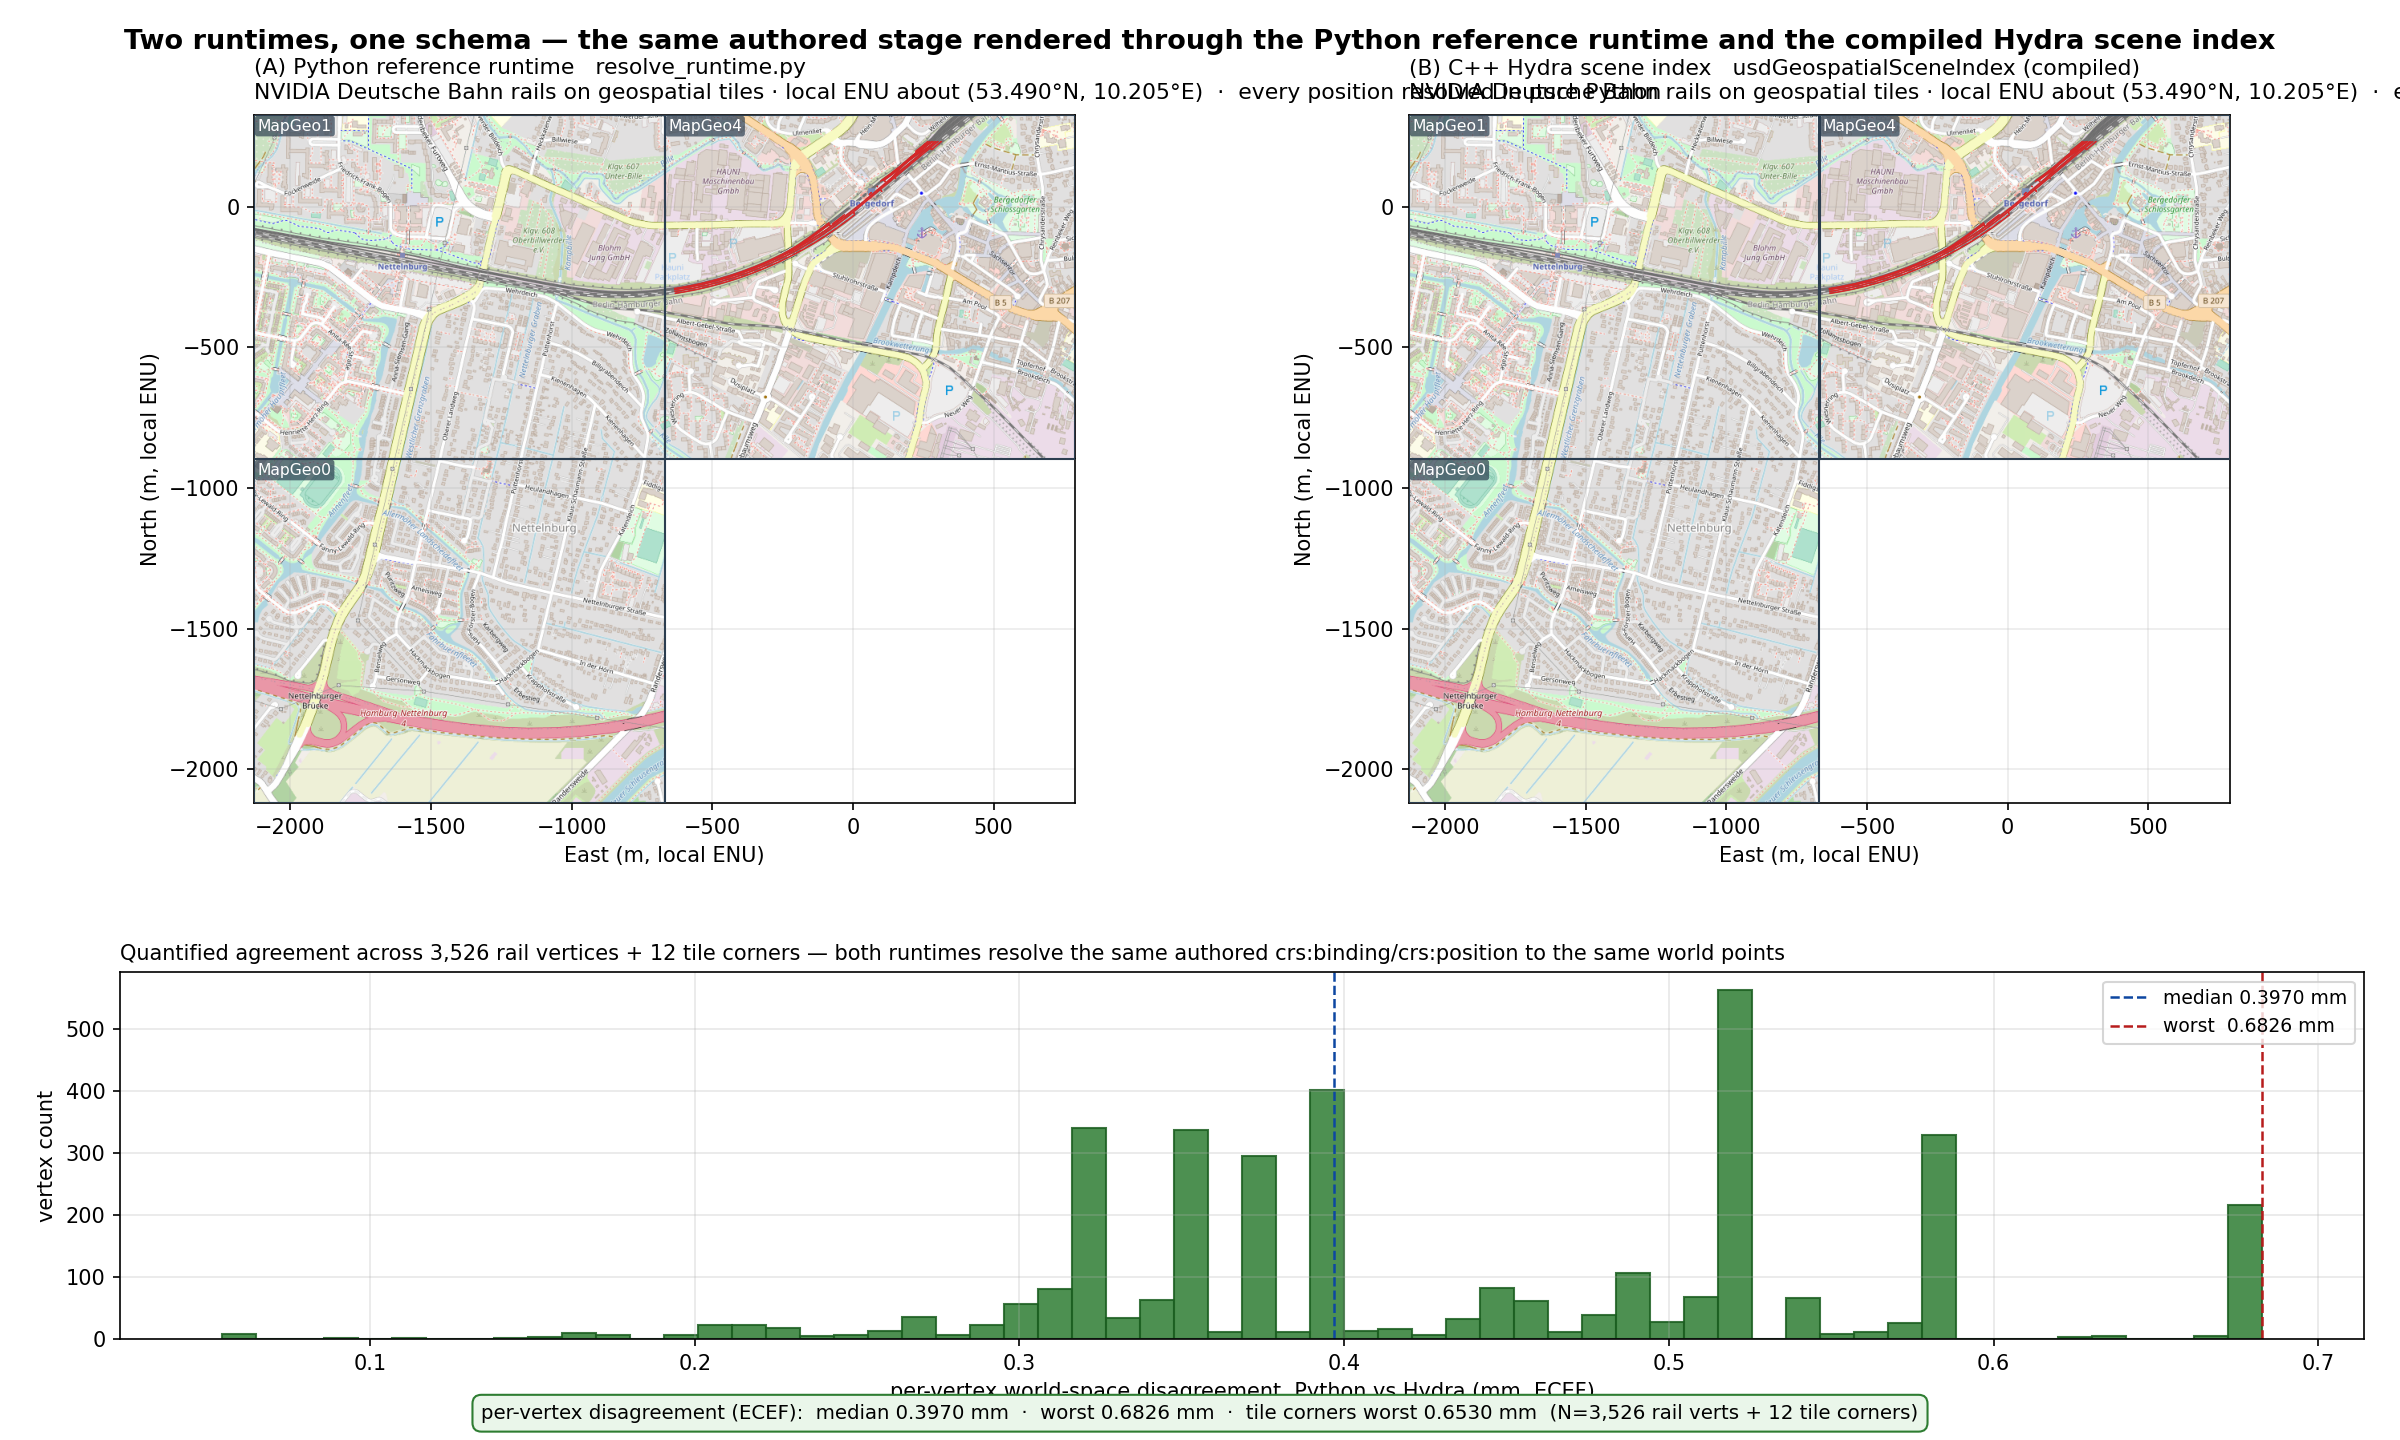
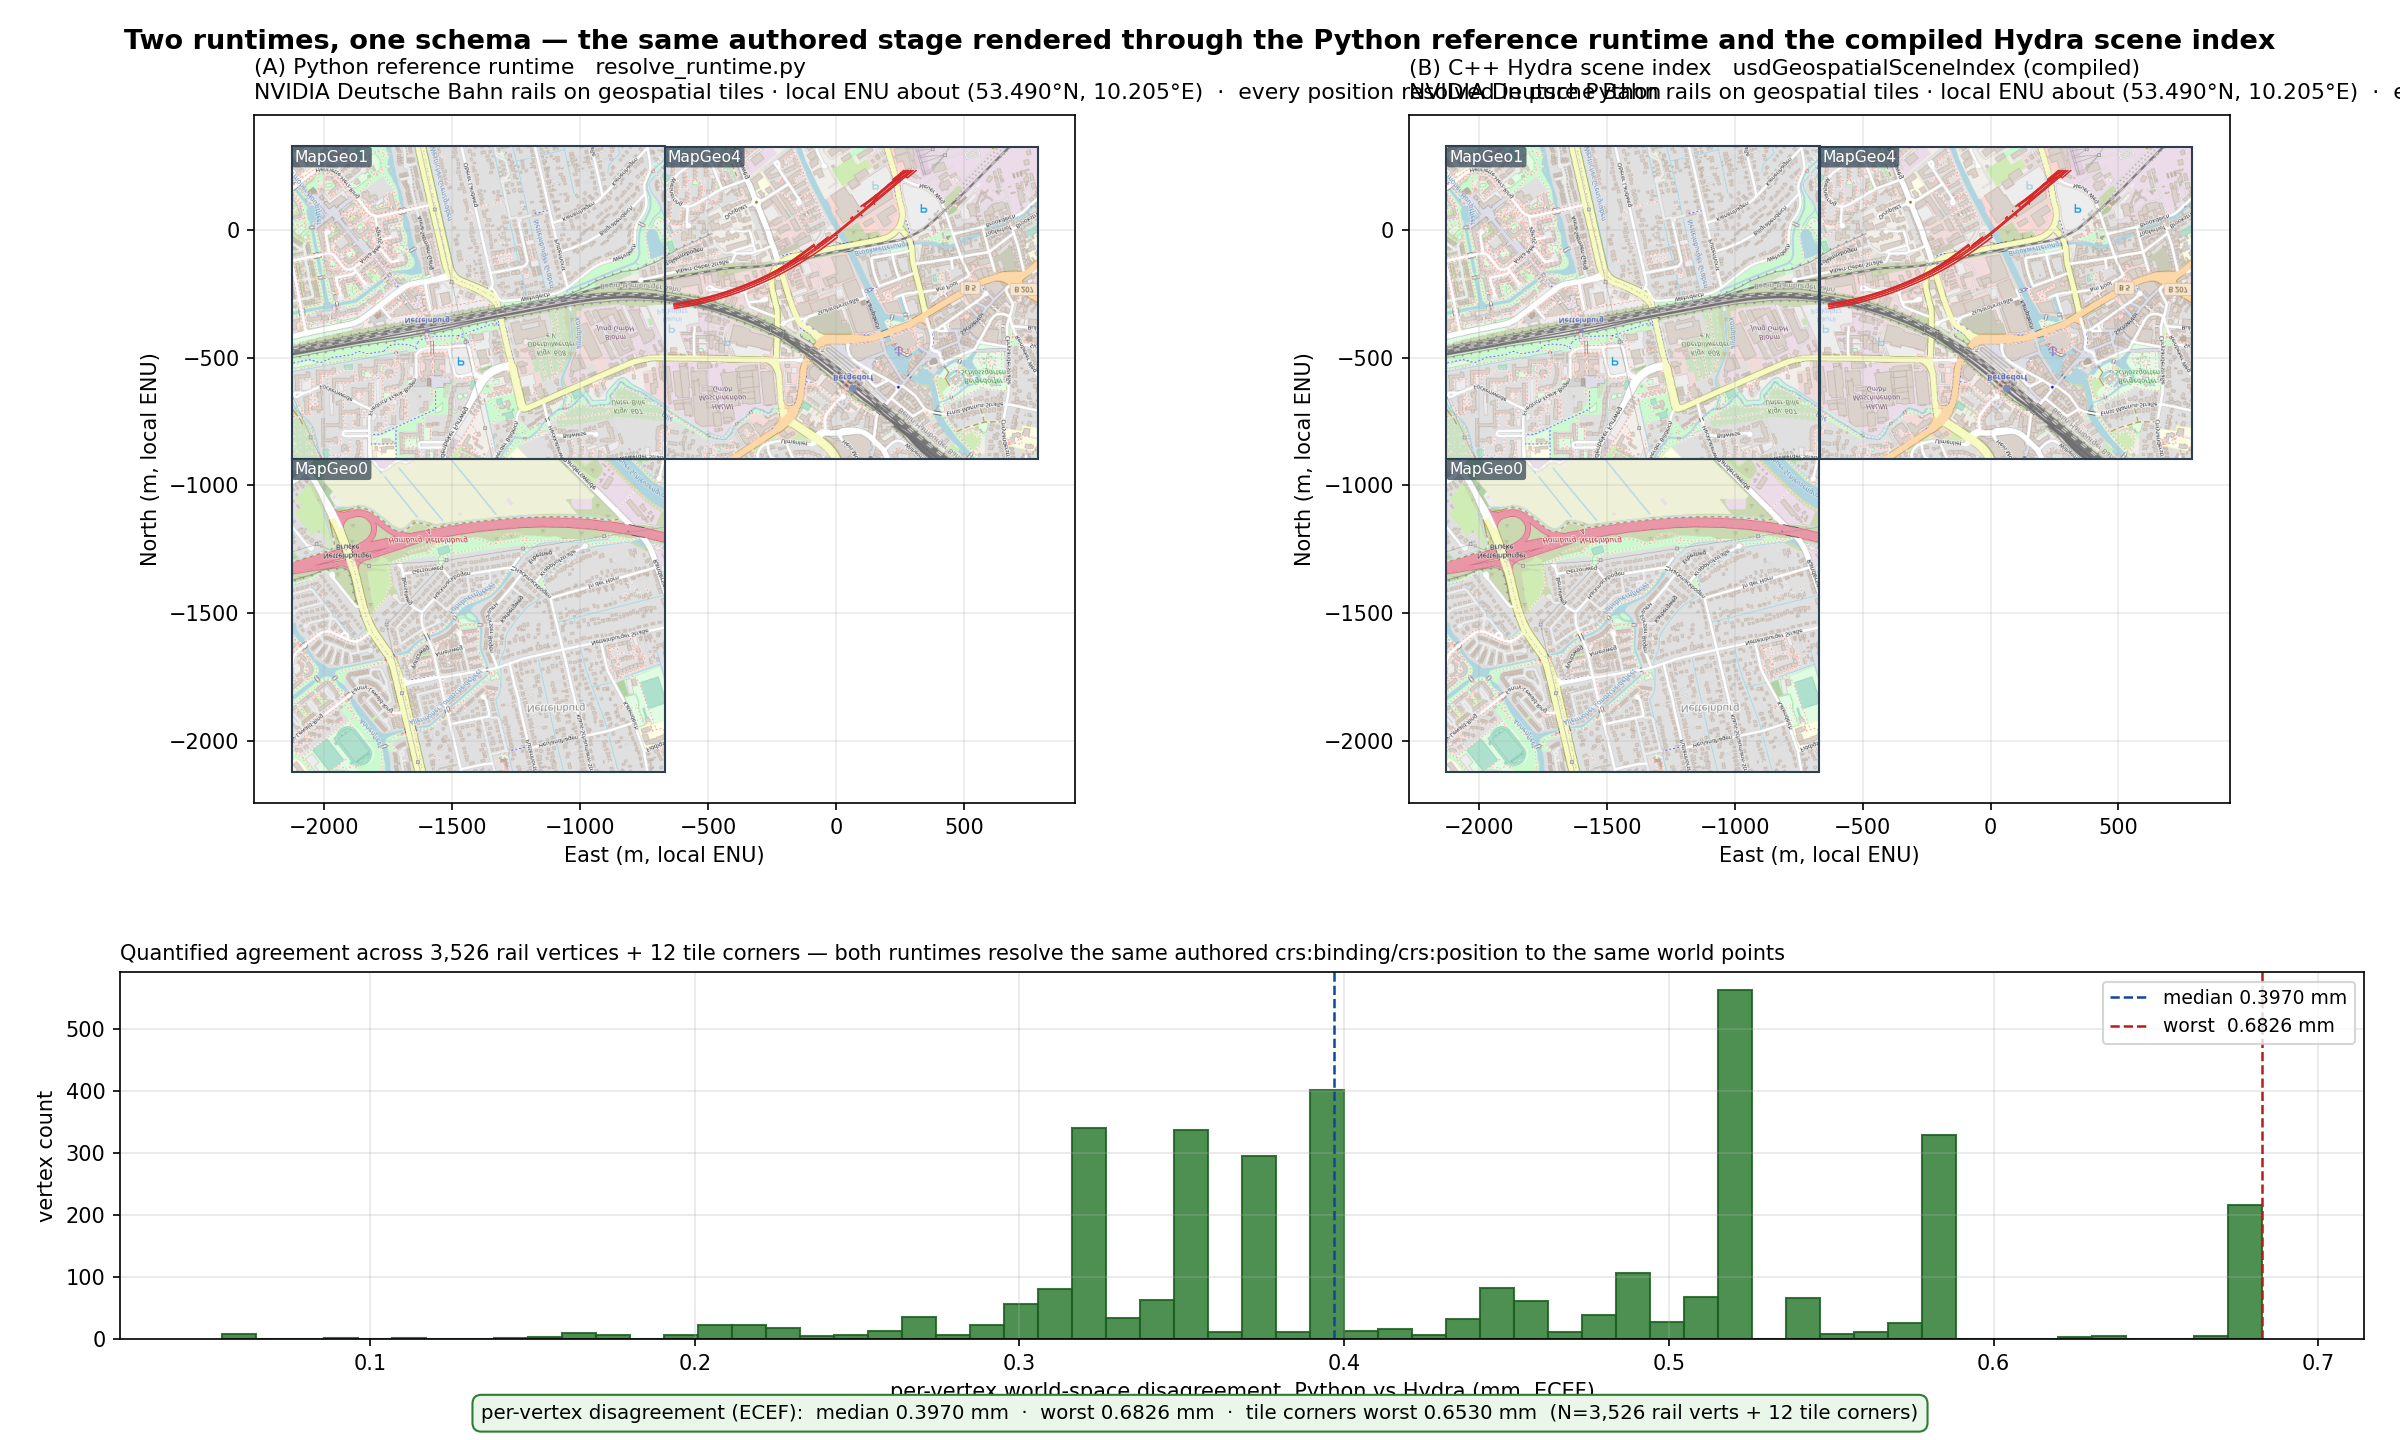
usdGeospatial: render tile textures via real st UVs, not a bbox stretch
Follow-up to the origin flip fix: the railway figures had been faking the tile
texturing by stretching each quadnode PNG into the tile's E/N bounding box. Now
they honor the asset's actual UsdUVTexture/st mapping -- a _draw_uv_textured_quad
helper solves the affine UV->world-EN transform from the mesh's per-corner st
([(0,0),(0,1),(1,1),(1,0)], t=0 at the south corner) and places image pixel (s,t)
at the world corner carrying that st. Exact for the (parallelogram) tiles here
(corner residual ~1e-10 m) and correct for any quad orientation, where a bbox
stretch would not be. Applied in both fig_railway_render and fig_runtime_parity.
Texture-only; geometry/parity unchanged (median 0.40 / worst 0.68 mm, 3,526
verts). Lets the README drop the 'we fake the texture' caveat.

diff --git a/extras/usd/examples/usdGeospatial/src/render_figures.py b/extras/usd/examples/usdGeospatial/src/render_figures.py
@@ -543,10 +543,43 @@ def fig_generalization(out):
 # This is the "rails on geospatial tiles" the original NVIDIA demo rendered,
 # reproduced through OUR codeless resolver (no Hydra, no external renderer).
 # --------------------------------------------------------------------------
+def _draw_uv_textured_quad(ax, img, corners_en, uvs, **imshow_kw):
+    """Draw a texture onto a quad using its ACTUAL st UVs -> world-EN mapping,
+    not a bbox stretch. Honors the asset's UsdUVTexture/st convention: image
+    pixel (s,t) is placed at the world corner carrying that (s,t), for any quad
+    orientation. UV (0,0) is the image's bottom-left, (1,1) its top-right.
+
+    For an affine (parallelogram) quad this is exact: we solve the 2x3 affine
+    A that maps unit-square UV space -> EN, set imshow on the unit square in a
+    UV-aligned data space, and compose A as the image transform. Falls back to
+    a bbox stretch only if UVs are missing."""
+    import matplotlib.transforms as mtransforms
+    if uvs is None or corners_en is None or len(corners_en) < 4:
+        c = corners_en
+        emin, emax = c[:, 0].min(), c[:, 0].max()
+        nmin, nmax = c[:, 1].min(), c[:, 1].max()
+        ax.imshow(img, extent=[emin, emax, nmin, nmax], origin="upper", **imshow_kw)
+        return
+    # Solve affine [E,N]^T = A @ [s,t,1]^T from the (>=3) corner correspondences.
+    S = np.column_stack([uvs[:, 0], uvs[:, 1], np.ones(len(uvs))])  # (n,3)
+    EN = np.asarray(corners_en)                                     # (n,2)
+    A, *_ = np.linalg.lstsq(S, EN, rcond=None)                      # (3,2): cols E,N
+    # imshow in UV space: extent [0,1]x[0,1], origin=lower so row0=t=0 (bottom).
+    im = ax.imshow(img, extent=[0, 1, 0, 1], origin="lower", **imshow_kw)
+    # Affine2D maps (s,t)->(E,N): [[a_e_s, a_e_t, a_e_1],[a_n_s, a_n_t, a_n_1]]
+    aff = mtransforms.Affine2D(matrix=np.array([
+        [A[0, 0], A[1, 0], A[2, 0]],
+        [A[0, 1], A[1, 1], A[2, 1]],
+        [0.0,     0.0,     1.0],
+    ]))
+    im.set_transform(aff + ax.transData)
+
+
 def _railway_local_geometry(stage_path="out/railway_georef.usda"):
     """Resolve tiles + rail curves into a shared local ENU frame centred on the
     railway centroid. Returns (tiles, rails, info). Each tile is a dict with
-    corner E/N (m) and the texture path; each rail is an (N,2) E/N polyline."""
+    corner E/N (m), per-corner st UVs, and the texture path; each rail is an
+    (N,2) E/N polyline."""
     from pxr import Usd, Gf
     import resolve_runtime as rr
     from pyproj import CRS
@@ -580,11 +613,15 @@ def _railway_local_geometry(stage_path="out/railway_georef.usda"):
         M, _ = rr.anchor_frame(t, ECEF, cache)
         tex = None
         corners = None
+        uvs = None
         for c in t.GetChildren():
             if c.GetTypeName() == "Mesh" and c.GetAttribute("points"):
                 pts = c.GetAttribute("points").Get()
                 corners = np.array([to_en(M.Transform(Gf.Vec3d(*p))) for p in pts])
-        tiles.append({"name": t.GetName(), "corners": corners})
+                stp = c.GetAttribute("primvars:st")
+                if stp and stp.Get():
+                    uvs = np.array([list(uv) for uv in stp.Get()])
+        tiles.append({"name": t.GetName(), "corners": corners, "uvs": uvs})
     # texture files (in vendor dir) keyed by MapGeo index if present
     import glob
     texdir = "data/thirdparty"
@@ -681,11 +718,11 @@ def fig_railway_render(out, stage_path="out/railway_georef.usda"):
         nmin, nmax = c[:, 1].min(), c[:, 1].max()
         if tl["tex"]:
             img = np.asarray(Image.open(tl["tex"]).convert("RGB"))
-            # origin="upper": image row 0 (top of the picture) maps to nmax (north),
-            # matching the tile's st convention (t=0 at the south corner). Using
-            # origin="lower" here flips the texture N/S (mirrored text).
-            ax.imshow(img, extent=[emin, emax, nmin, nmax], origin="upper",
-                      zorder=1, alpha=0.95, aspect="auto")
+            # Faithful UV-mapped draw: place image (s,t) at the world corner with
+            # that st (honors the asset's UsdUVTexture/st mapping for any quad
+            # orientation), instead of stretching the PNG into the E/N bbox.
+            _draw_uv_textured_quad(ax, img, c, tl.get("uvs"),
+                                   zorder=1, alpha=0.95)
         else:
             ax.add_patch(plt.Rectangle((emin, nmin), emax-emin, nmax-nmin,
                          fc="#cdd6df", ec="#8a97a6", zorder=1))

diff --git a/extras/usd/examples/usdGeospatial/fig_runtime_parity.py b/extras/usd/examples/usdGeospatial/fig_runtime_parity.py
@@ -90,7 +90,10 @@ def collect_tiles_rails(stage, get_xform):
                     continue
                 corners = np.array([to_en(M.Transform(Gf.Vec3d(*p)), o, east, north)
                                     for p in pts])
-                tiles.append({"name": t.GetName(), "corners": corners})
+                stp = c.GetAttribute("primvars:st")
+                uvs = (np.array([list(uv) for uv in stp.Get()])
+                       if stp and stp.Get() else None)
+                tiles.append({"name": t.GetName(), "corners": corners, "uvs": uvs})
     rails = []
     rail_world = []     # raw ECEF points for parity stats
     for r in stage.Traverse():
@@ -115,6 +118,28 @@ def collect_tiles_rails(stage, get_xform):
     return tiles, rails, rail_world, (lon0, lat0)
 
 
+def _draw_uv_textured_quad(ax, img, corners_en, uvs, **imshow_kw):
+    """Place image pixel (s,t) at the world-EN corner carrying that st (honors
+    the asset's UsdUVTexture/st mapping for any quad orientation), via an affine
+    UV->EN transform; bbox fallback only if UVs are missing."""
+    import matplotlib.transforms as mtransforms
+    if uvs is None or corners_en is None or len(corners_en) < 4:
+        c = corners_en
+        ax.imshow(img, extent=[c[:, 0].min(), c[:, 0].max(),
+                               c[:, 1].min(), c[:, 1].max()],
+                  origin="upper", **imshow_kw)
+        return
+    S = np.column_stack([uvs[:, 0], uvs[:, 1], np.ones(len(uvs))])
+    A, *_ = np.linalg.lstsq(S, np.asarray(corners_en), rcond=None)  # (3,2)
+    im = ax.imshow(img, extent=[0, 1, 0, 1], origin="lower", **imshow_kw)
+    aff = mtransforms.Affine2D(matrix=np.array([
+        [A[0, 0], A[1, 0], A[2, 0]],
+        [A[0, 1], A[1, 1], A[2, 1]],
+        [0.0,     0.0,     1.0],
+    ]))
+    im.set_transform(aff + ax.transData)
+
+
 def draw_rails_on_tiles(ax, tiles, rails, title_top, title_sub):
     ax.set_title(f"{title_top}\n{title_sub}", fontsize=10.5, loc="left", pad=8)
     for tl in tiles:
@@ -125,10 +150,8 @@ def draw_rails_on_tiles(ax, tiles, rails, title_top, title_sub):
         nmin, nmax = c[:, 1].min(), c[:, 1].max()
         if tl["tex"]:
             img = np.asarray(Image.open(tl["tex"]).convert("RGB"))
-            # origin="upper": image row 0 (top) -> nmax (north), matching the tile's
-            # st convention (t=0 south). origin="lower" flips the texture N/S.
-            ax.imshow(img, extent=[emin, emax, nmin, nmax], origin="upper",
-                      zorder=1, alpha=0.95, aspect="auto")
+            # Faithful UV-mapped draw (asset st convention), not a bbox stretch.
+            _draw_uv_textured_quad(ax, img, c, tl.get("uvs"), zorder=1, alpha=0.95)
         else:
             ax.add_patch(plt.Rectangle((emin, nmin), emax - emin, nmax - nmin,
                          fc="#cdd6df", ec="#8a97a6", zorder=1))
